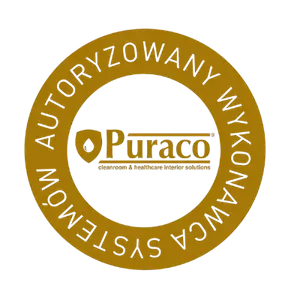
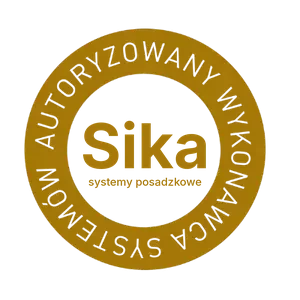
Strona startowa: w certyfikacji tylko Flowcrete i Sika (#7)
* Strona startowa: w sekcji certyfikacji zostaw tylko Flowcrete i Sika

Usunięto plakietki Puraco, ACO i Polysto oraz zaktualizowano tekst
"Autoryzowany wykonawca" do: Flowcrete i Sika.

Claude-Session: https://claude.ai/code/session_01E41oMvDQ8K1GZYoBxvQqAF

* Dodaj plakietkę Sika w sekcji certyfikacji

Plakietka w stylu Flowcrete (ten sam złoty pierścień), w środku napis Sika.

Claude-Session: https://claude.ai/code/session_01E41oMvDQ8K1GZYoBxvQqAF

---------

diff --git a/src/pages/Home.jsx b/src/pages/Home.jsx
@@ -9,8 +9,6 @@ import { useReveal } from "../hooks/useReveal.js";
 import { SERVICES } from "../data/services.js";
 import certIcon1 from "../assets/certyfikaty/cert-1.webp";
 import certIcon2 from "../assets/certyfikaty/cert-2.webp";
-import certIcon3 from "../assets/certyfikaty/cert-3.webp";
-import certIcon4 from "../assets/certyfikaty/cert-4.webp";
 import pawelPhoto from "../assets/team/pawel-najduk.webp";
 
 const FAQ = [
@@ -50,9 +48,7 @@ const FAQ = [
 
 const CERT_ICONS = [
   { src: certIcon1, alt: "Autoryzowany wykonawca systemów Flowcrete" },
-  { src: certIcon2, alt: "Autoryzowany wykonawca systemów Puraco" },
-  { src: certIcon3, alt: "Autoryzowany wykonawca systemów ACO" },
-  { src: certIcon4, alt: "Autoryzowany wykonawca systemów Polysto" },
+  { src: certIcon2, alt: "Autoryzowany wykonawca systemów Sika" },
 ];
 
 const STATS = [
@@ -516,7 +512,7 @@ export default function Home() {
               </h2>
               <p className="text-base" style={{ color: COLORS.textOnLight }}>
                 FLOWTEX Polska jest autoryzowanym wykonawcą systemów posadzkowych
-                w technologiach: Flowcrete, Sika, Sto, Aco, Polysto.
+                w technologiach: Flowcrete i Sika.
               </p>
             </div>
           </div>
